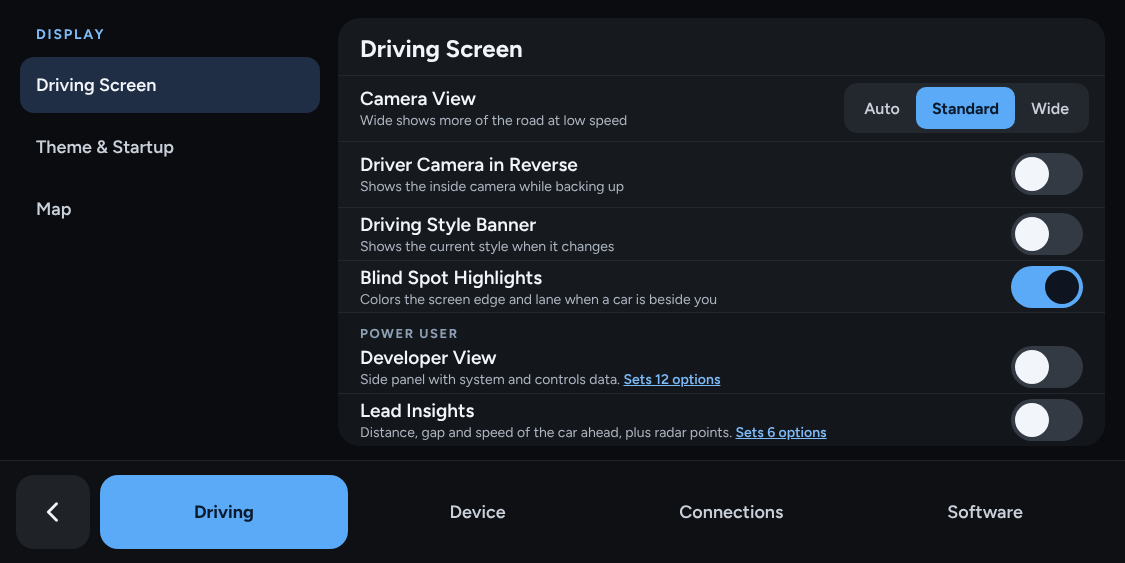
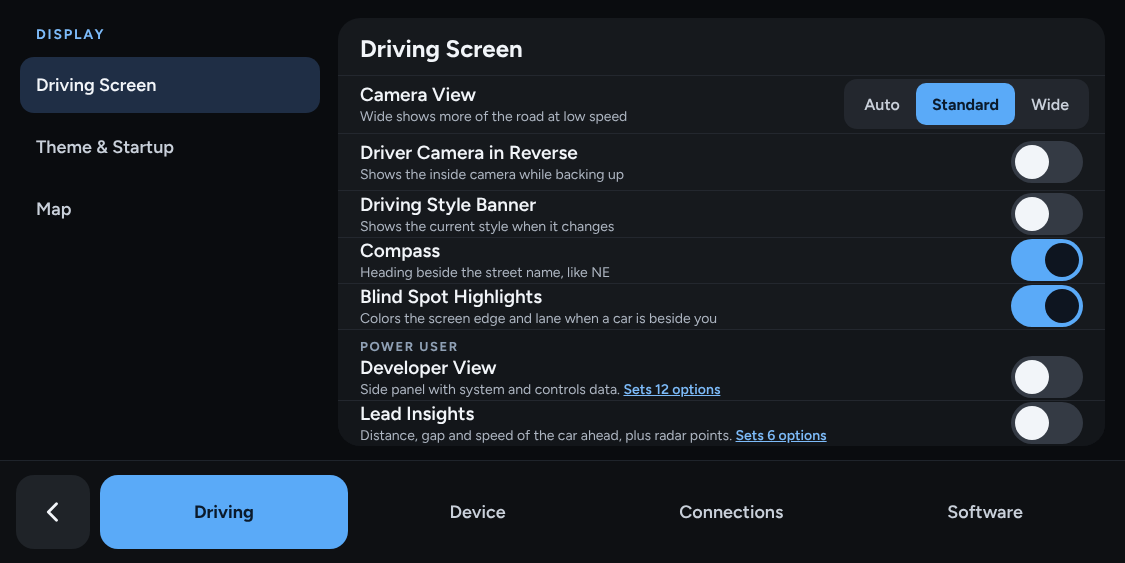
Display: a Compass switch in Driving Screen
The compass (the heading beside the street name in the onroad bar) gets
its own switch, on by default, instead of a fixed value. It writes
StarPilot's Compass param, and settings search finds it. Mocks first:
display.html, and defaults.html moves it from the fixed list to the
Display group.

Claude-Session: https://claude.ai/code/session_01R4pPc2hcx88Dbjjec1p8WC

Changed region(s): [[0.3111, 0.151, 0.7467, 0.7851], [0.9022, 0.2416, 0.9644, 0.7851], [0.7467, 0.1208, 0.9644, 0.2416]]

diff --git a/selfdrive/ui/tandem/design/defaults.html b/selfdrive/ui/tandem/design/defaults.html
@@ -56,6 +56,9 @@ a{color:#7DBBF9}a:hover{color:#A9D3FB}
         <span style="font-size: 17px; font-weight: 700;">Driving Style Banner</span><span style="font-size: 16px; color: #AEB6C2;">On · <b style="color: #F2F5F9;">Off</b></span><span style="font-family: 'JetBrains Mono', monospace; font-size: 13px; color: #9FAABA;">HideDistanceProfileBanner AdvancedCustomUI</span>
       </div>
       <div style="display: grid; grid-template-columns: 210px 300px minmax(0, 1fr); gap: 20px; padding: 10px 24px; border-bottom: 1px solid #22262C; align-items: baseline;">
+        <span style="font-size: 17px; font-weight: 700;">Compass</span><span style="font-size: 16px; color: #AEB6C2;"><b style="color: #F2F5F9;">On</b> · Off</span><span style="font-family: 'JetBrains Mono', monospace; font-size: 13px; color: #9FAABA;">Compass</span>
+      </div>
+      <div style="display: grid; grid-template-columns: 210px 300px minmax(0, 1fr); gap: 20px; padding: 10px 24px; border-bottom: 1px solid #22262C; align-items: baseline;">
         <span style="font-size: 17px; font-weight: 700;">Blind Spot Highlights</span><span style="font-size: 16px; color: #AEB6C2;"><b style="color: #F2F5F9;">On</b> · Off</span><span style="font-family: 'JetBrains Mono', monospace; font-size: 13px; color: #9FAABA;">BlindSpotPath BlindSpotMetrics SignalMetrics BorderWidth</span>
       </div>
       <div style="display: grid; grid-template-columns: 210px 300px minmax(0, 1fr); gap: 20px; padding: 10px 24px; border-bottom: 1px solid #22262C; align-items: baseline;">
@@ -80,7 +83,6 @@ a{color:#7DBBF9}a:hover{color:#A9D3FB}
           <div style="display: flex; justify-content: space-between; gap: 12px;"><span>Holiday themes (<code style="font-family: 'JetBrains Mono', monospace; font-size: 13px;">HolidayThemes</code>)</span><b>Off</b></div>
           <div style="display: flex; justify-content: space-between; gap: 12px;"><span>Rotating wheel</span><b>On</b></div>
           <div style="display: flex; justify-content: space-between; gap: 12px;"><span>Stopped timer</span><b>On</b></div>
-          <div style="display: flex; justify-content: space-between; gap: 12px;"><span>Compass</span><b>On</b></div>
           <div style="display: flex; justify-content: space-between; gap: 12px;"><span>Wheel speed</span><b>Off</b></div>
           <div style="display: flex; justify-content: space-between; gap: 12px;"><span>Reverse cruise increase</span><b>Off</b></div>
           <div style="display: flex; justify-content: space-between; gap: 12px;"><span>Pulse and glide</span><b>Off</b></div>

diff --git a/selfdrive/ui/tandem/design/display.html b/selfdrive/ui/tandem/design/display.html
@@ -47,6 +47,13 @@ a{color:#7DBBF9}a:hover{color:#A9D3FB}
       </div>
       <div style="display: flex; align-items: center; gap: 16px; padding: 0 22px; height: 56px; border-bottom: 1px solid #23272E;">
         <div style="flex-grow: 1; display: flex; flex-direction: column; gap: 2px; min-width: 0;">
+          <span style="font-size: 19px; font-weight: 600;">Compass</span>
+          <span style="font-size: 14px; color: #AEB6C2;">Heading beside the street name, like NE</span>
+        </div>
+        <button type="button" role="switch" aria-checked="true" aria-label="Compass" style="width: 72px; height: 42px; border-radius: 21px; border: 0; background: #5AAAF8; padding: 4px; display: flex; justify-content: flex-end;"><span style="width: 34px; height: 34px; border-radius: 17px; background: #0E1520; display: block;"></span></button>
+      </div>
+      <div style="display: flex; align-items: center; gap: 16px; padding: 0 22px; height: 56px; border-bottom: 1px solid #23272E;">
+        <div style="flex-grow: 1; display: flex; flex-direction: column; gap: 2px; min-width: 0;">
           <span style="font-size: 19px; font-weight: 600;">Blind Spot Highlights</span>
           <span style="font-size: 14px; color: #AEB6C2;">Colors the screen edge and lane when a car is beside you</span>
         </div>

diff --git a/selfdrive/ui/tandem/settings/display.py b/selfdrive/ui/tandem/settings/display.py
@@ -103,6 +103,14 @@ class Display:
     self._store.write({"AdvancedCustomUI": True, "HideDistanceProfileBanner": not on})
 
   @property
+  def compass(self) -> bool:
+    """StarPilot's compass: the heading beside the street name in the onroad bar."""
+    return self._store.get_bool("Compass")
+
+  def set_compass(self, on: bool) -> None:
+    self._store.write({"Compass": on})
+
+  @property
   def blind_spot(self) -> bool:
     return self._store.get_bool("BlindSpotPath")
 
@@ -251,6 +259,7 @@ def driving_screen_panel(model: Display, window) -> ListPanel:
                Switch(lambda: model.driver_camera_in_reverse, model.set_driver_camera_in_reverse)),
     SettingRow("Driving Style Banner", "Shows the current style when it changes",
                Switch(lambda: model.driving_style_banner, model.set_driving_style_banner)),
+    SettingRow("Compass", "Heading beside the street name, like NE", Switch(lambda: model.compass, model.set_compass)),
     SettingRow("Blind Spot Highlights", "Colors the screen edge and lane when a car is beside you",
                Switch(lambda: model.blind_spot, model.set_blind_spot)),
     SectionHeader("POWER USER"),

diff --git a/selfdrive/ui/tandem/settings/defaults.py b/selfdrive/ui/tandem/settings/defaults.py
@@ -34,6 +34,7 @@ def _apply(store: SettingsStore, boot_logos=None) -> None:
   display = Display(store, boot_logos)
   display.set_path_style(0)               # Standard
   display.set_driving_style_banner(False)
+  display.set_compass(True)
   display.set_blind_spot(True)
   display.set_camera_view(1)              # Standard
   display.set_boot_logo(TANDEM_LOGO)
@@ -47,5 +48,4 @@ def _apply(store: SettingsStore, boot_logos=None) -> None:
   for bundle in BUNDLES:
     bundle.set(store, False)
   Tuner(store).reset_all()
-  store.write({"HolidayThemes": False,   # this redesign has no holiday themes
-               "Compass": True})        # the heading beside the street name in the onroad bar
+  store.write({"HolidayThemes": False})   # this redesign has no holiday themes

diff --git a/selfdrive/ui/tandem/settings/search.py b/selfdrive/ui/tandem/settings/search.py
@@ -85,6 +85,7 @@ ENTRIES: list[Entry] = [
   Entry("Camera View", "Wide shows more of the road at low speed", 0, D, 0),
   Entry("Driver Camera in Reverse", "Shows the inside camera while backing up", 0, D, 0),
   Entry("Driving Style Banner", "Shows the current style when it changes", 0, D, 0),
+  Entry("Compass", "Heading beside the street name, like NE", 0, D, 0, "heading direction north"),
   Entry("Blind Spot Highlights", "Colors the screen edge and lane when a car is beside you", 0, D, 0, "bsm"),
   Entry("Developer View", "Side panel with system and controls data", 0, D, 0, "developer ui metrics"),
   Entry("Lead Insights", "Distance, gap and speed of the car ahead, plus radar points", 0, D, 0, "lead metrics radar"),

diff --git a/selfdrive/ui/tandem/tests/test_settings.py b/selfdrive/ui/tandem/tests/test_settings.py
@@ -1280,3 +1280,13 @@ def test_language_shows_its_name_after_a_restart():
   assert general.language_name() == "Deutsch"
   assert same_language("main_de", "de") and not same_language("main_de", "main_en")
 
+
+
+def test_compass_switch_writes_starpilots_compass():
+  from openpilot.selfdrive.ui.tandem.settings.display import Display, driving_screen_panel
+  store, cache = _store({"Compass": False})
+  display = Display(store)
+  row = _rows(driving_screen_panel(display, None))["Compass"]
+  assert not row._control.value
+  display.set_compass(True)
+  assert cache.values["Compass"] and display.compass

diff --git a/selfdrive/ui/tandem/design/README.md b/selfdrive/ui/tandem/design/README.md
@@ -107,6 +107,7 @@ Defaults are in **bold**.
 | Path Style | **Standard** · Thin · Rainbow · Acceleration | `PathColor` `PathWidth` `PathEdgeWidth` `PathEdgesColor` `LaneLinesColor` `LaneLinesWidth` `RoadEdgesWidth` `RainbowPath` `AccelerationPath` `DynamicPathWidth` |
 | Turn Signal | **Standard** · Whimsy: Jumping frog · Pouncing cat · Bouncing ball | `SignalAnimation` (`stock`, `frog`, `pouncing_cat`, `bouncing_ball`); a Whimsy choice also sets `CustomThemes` on and `RandomThemes` off, as StarPilot's picker does |
 | Driving Style Banner | On · **Off** | `HideDistanceProfileBanner` (inverted) `AdvancedCustomUI` |
+| Compass | **On** · Off | `Compass` |
 | Blind Spot Highlights | **On** · Off | `BlindSpotPath` `BlindSpotMetrics` `SignalMetrics` `BorderWidth` |
 | Alert Volume | Quiet · **Normal** · Loud | `EngageVolume` `DisengageVolume` `PromptVolume` `PromptDistractedVolume` `RefuseVolume` `WarningSoftVolume` `WarningImmediateVolume` `BelowSteerSpeedVolume` |
 
@@ -124,7 +125,7 @@ Lane-change and turn progress always use the status chips; their full-width stat
 
 ## Fixed values, no longer shown
 
-Holiday themes off (`HolidayThemes`; this redesign drops them), rotating wheel **on**, stopped timer **on**, compass **on** (its heading shows beside the street name in the bar), wheel speed off, reverse cruise increase off, pulse and glide off, map gears off, force stops and force standstill off, model randomizer off. The onroad personality button (`OnroadDistanceButton`) is removed.
+Holiday themes off (`HolidayThemes`; this redesign drops them), rotating wheel **on**, stopped timer **on**, wheel speed off, reverse cruise increase off, pulse and glide off, map gears off, force stops and force standstill off, model randomizer off. The onroad personality button (`OnroadDistanceButton`) is removed.
 
 ## Navigation changes
 
